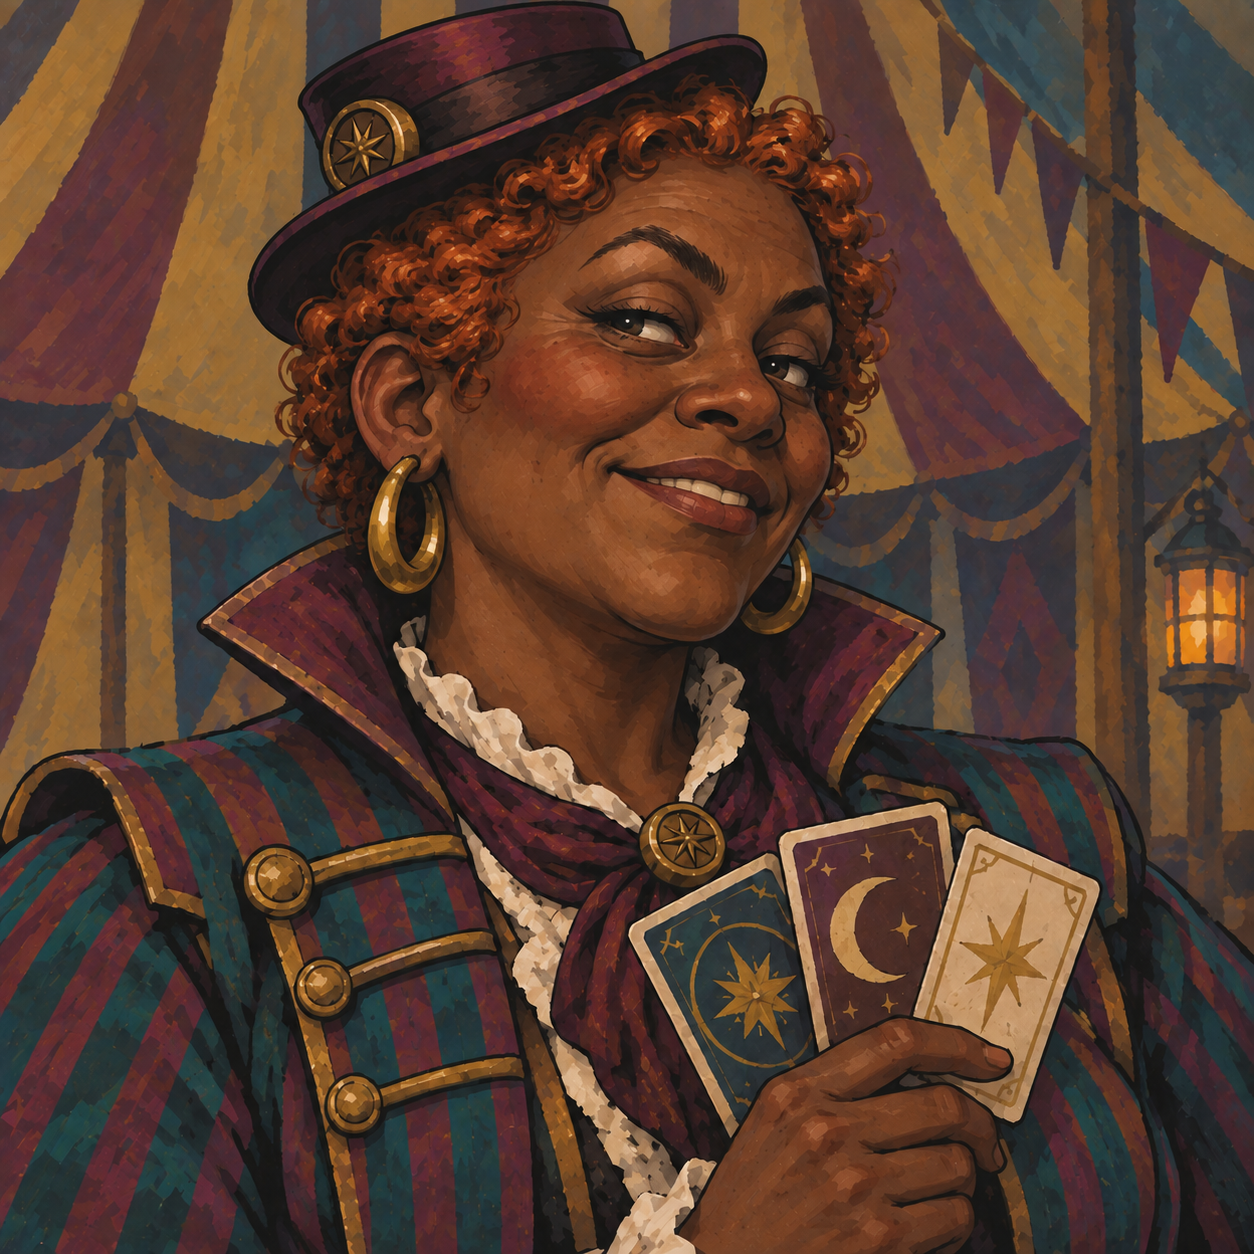
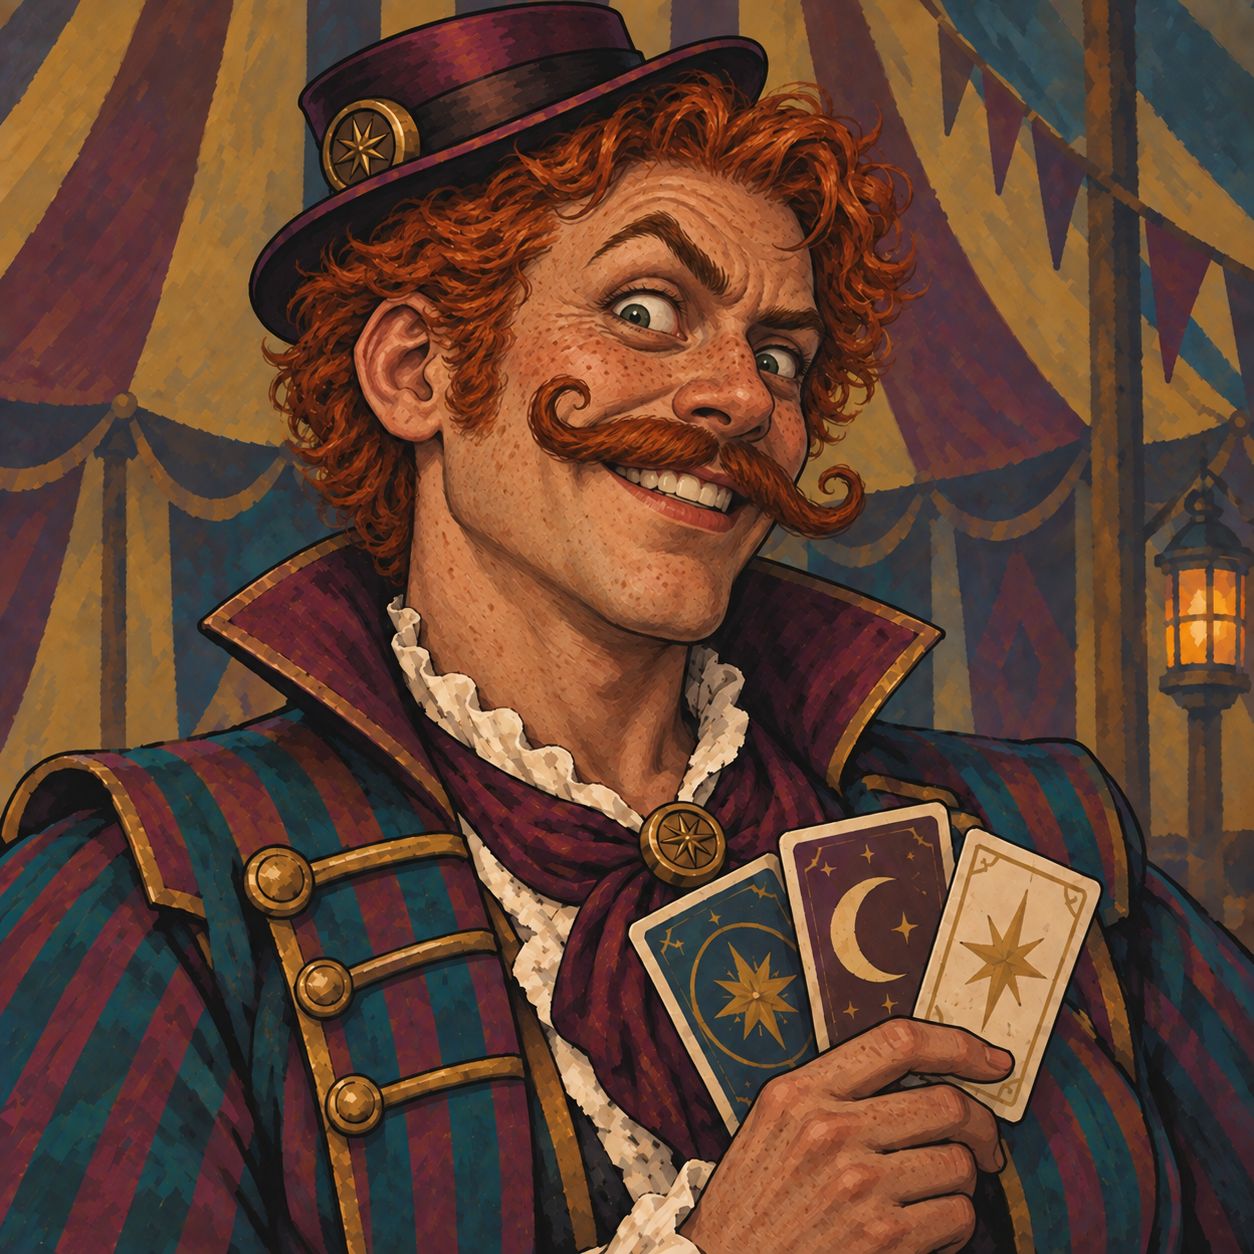
Initial commit

diff --git a/resources/js/components/chanting/CharacterPortrait.vue b/resources/js/components/chanting/CharacterPortrait.vue
@@ -31,12 +31,12 @@ const portraitImages: Record<string, string> = {
         '/assets/chanting/unlocks/seasonal_cultist-illustrated.png',
     seasonal_oathkeeper:
         '/assets/chanting/unlocks/seasonal_oathkeeper-illustrated.png',
-    fae_envoy: '/assets/chanting/expansions/fae_envoy-illustrated.png',
-    drowned_diver: '/assets/chanting/expansions/drowned_diver-illustrated.png',
+    fae_envoy: '/assets/chanting/expansions/fae_envoy-illustrated.png?v=2',
+    drowned_diver: '/assets/chanting/expansions/drowned_diver-illustrated.png?v=2',
     relic_broker: '/assets/chanting/expansions/relic_broker-illustrated.png',
     hollow_cantor: '/assets/chanting/expansions/hollow_cantor-illustrated.png',
     carnival_ringmaster:
-        '/assets/chanting/expansions/carnival_ringmaster-illustrated.png',
+        '/assets/chanting/expansions/carnival_ringmaster-illustrated.png?v=2',
 };
 const portraitImage = computed(() => portraitImages[props.character]);
 const label = computed(() =>

diff --git a/docs/expansion-characters-art.md b/docs/expansion-characters-art.md
@@ -1,5 +1,7 @@
 # Expansion character portraits
 
+The latest requested revisions are documented at the end of this file; earlier prompts below preserve the original generation history.
+
 Created 2026-09-13 with the built-in image_gen tool. Five individual portraits use the original illustrated ensemble as the style authority and the existing Tidecaller portrait as a secondary framing reference. Each final PNG is copied unchanged from the generated output, preserving image metadata; no raster post-processing was applied.
 
 All are 1254 × 1254 square portraits intended for store previews and character selection. The five identities have distinct faction clothing, props and silhouettes while retaining dark ink contours, angular opaque gouache planes, muted village colors and expressive faces.
@@ -123,4 +125,50 @@ Targeted refinement uses the initial generated portrait as its only edit target:
 
 ```text
 Use case: precise-object-edit. Input is the edit target, a single square game character illustration. Preserve its exact angular ink-and-opaque-gouache finish, brush shapes and muted palette. Do not make any part photographic or realistic. Refine her identity: she is a clearly deep-brown-skinned Black woman, with rich dark umber and chestnut skin instead of the current light orange ochre. Match face, neck, ears and visible hand. Give her a broader joyful smile with a modest glimpse of teeth and round cheerful cheeks, keeping her shrewd expressive eyebrows. Reduce only the height of the short plum top hat slightly so the ENTIRE hat crown is within the square with a small top margin; do not shrink the face or pull back the portrait. Preserve cropped copper curls, coat, three prediction cards, backdrop and composition. No words, no border, no watermark. Output one square PNG.
+```
+
+## Latest requested revisions — 2026-09-13
+
+These built-in image_gen edits replace the three corresponding final assets above. Earlier prompts are retained as generation history. The Thorn Envoy is now a white, fair-skinned elf woman; the Deep Diver wears a complete brass helmet; the Ringmaster is now a white ginger-haired man with curled handlebar moustache and a wild theatrical grin. PNGs were visually inspected and copied unchanged to the existing project paths.
+
+### fae_envoy
+
+Final asset: `public/assets/chanting/expansions/fae_envoy-illustrated.png`
+
+Generated source: `C:\Users\nurdo\.codex\generated_images\01a09a12-d4c4-7453-bbfa-e69d41487edd\exec-22d8e469-d827-495c-8f2e-c31f8ffdc11b.png`
+
+Edit input: the previous version of this same project asset.
+
+Exact prompt:
+
+```text
+Use case: precise-object-edit. Edit the supplied single square game portrait. Preserve its exact dark ink outlines, angular opaque gouache brush shapes, muted navy/teal/olive/burgundy/brass palette and expressive illustrated storybook finish. No photorealism, no 3D rendering, no smooth airbrushed skin. Keep the square close chest-up composition and original background. One portrait only, no border, text or watermark. Change the Thorn Envoy into a white, fair-skinned adult elf woman. Give all visible skin (face, pointed ears, neck and hand) a consistent light ivory/peach complexion with subtle rosy warmth, clearly fair rather than tan. Preserve her silver swept-up hair, thorn circlet, pointed ears, knowing sideways glance and sly smile, plum-and-olive court clothing, jewelry, folded parchment and woodland court background. Keep her graceful facial structure and the existing illustrated style.
+```
+
+### drowned_diver
+
+Final asset: `public/assets/chanting/expansions/drowned_diver-illustrated.png`
+
+Generated source: `C:\Users\nurdo\.codex\generated_images\01a09a12-d4c4-7453-bbfa-e69d41487edd\exec-51ff14ba-9e1a-4b94-a0fd-17a9dba6247e.png`
+
+Edit input: the previous version of this same project asset.
+
+Exact prompt:
+
+```text
+Use case: precise-object-edit. Edit the supplied single square game portrait. Preserve its exact dark ink outlines, angular opaque gouache brush shapes, muted navy/teal/olive/burgundy/brass palette and expressive illustrated storybook finish. No photorealism, no 3D rendering, no smooth airbrushed skin. Keep the square close chest-up composition and original background. One portrait only, no border, text or watermark. Put the Deep Diver inside a complete vintage brass deep-sea diving helmet, bolted firmly onto the existing brass shoulder collar. The large rounded riveted helmet fully encloses the head, with a circular thick glass front viewport and small side ports, worn brass, restrained teal patina and a few barnacles. Show a faint readable glimpse of the existing face through the dark teal glass, but the unmistakable enclosed brass helmet is the main silhouette; no exposed hair or head outside it. Fit the whole helmet within the square with a little headroom. Preserve the indigo diving suit, rope, chain, brass collar and drowned harbor background. Render the helmet with bold painted planes and ink contours matching the illustration, not realistic reflective metal.
+```
+
+### carnival_ringmaster
+
+Final asset: `public/assets/chanting/expansions/carnival_ringmaster-illustrated.png`
+
+Generated source: `C:\Users\nurdo\.codex\generated_images\01a09a12-d4c4-7453-bbfa-e69d41487edd\exec-1e9d6773-35ec-46ca-b889-65342cb9721c.png`
+
+Edit input: the previous version of this same project asset.
+
+Exact prompt:
+
+```text
+Use case: precise-object-edit. Edit the supplied single square game portrait. Preserve its exact dark ink outlines, angular opaque gouache brush shapes, muted navy/teal/olive/burgundy/brass palette and expressive illustrated storybook finish. No photorealism, no 3D rendering, no smooth airbrushed skin. Keep the square close chest-up composition and original background. One portrait only, no border, text or watermark. Transform the Ringmaster into a white, fair-skinned adult man with a flamboyant ginger handlebar moustache, both ends rolled upward into distinct curls. Give him tousled ginger hair, a masculine angular face, light freckled peach/ivory skin consistently on face, ears, neck and hand, and a clean-shaven chin so the curled moustache is prominent. Make him look a little wild and unhinged in a playful theatrical way: bright wide eyes, one dramatically cocked eyebrow, and an impish lopsided toothy grin. No horror or gore. Preserve the jaunty short plum top hat, teal-and-burgundy striped ringmaster coat with brass fastenings, small fan of three prediction cards, carnival tent backdrop and painterly finish. Keep the complete hat in frame with small headroom and the face large enough to read as a tiny avatar.
 ```
